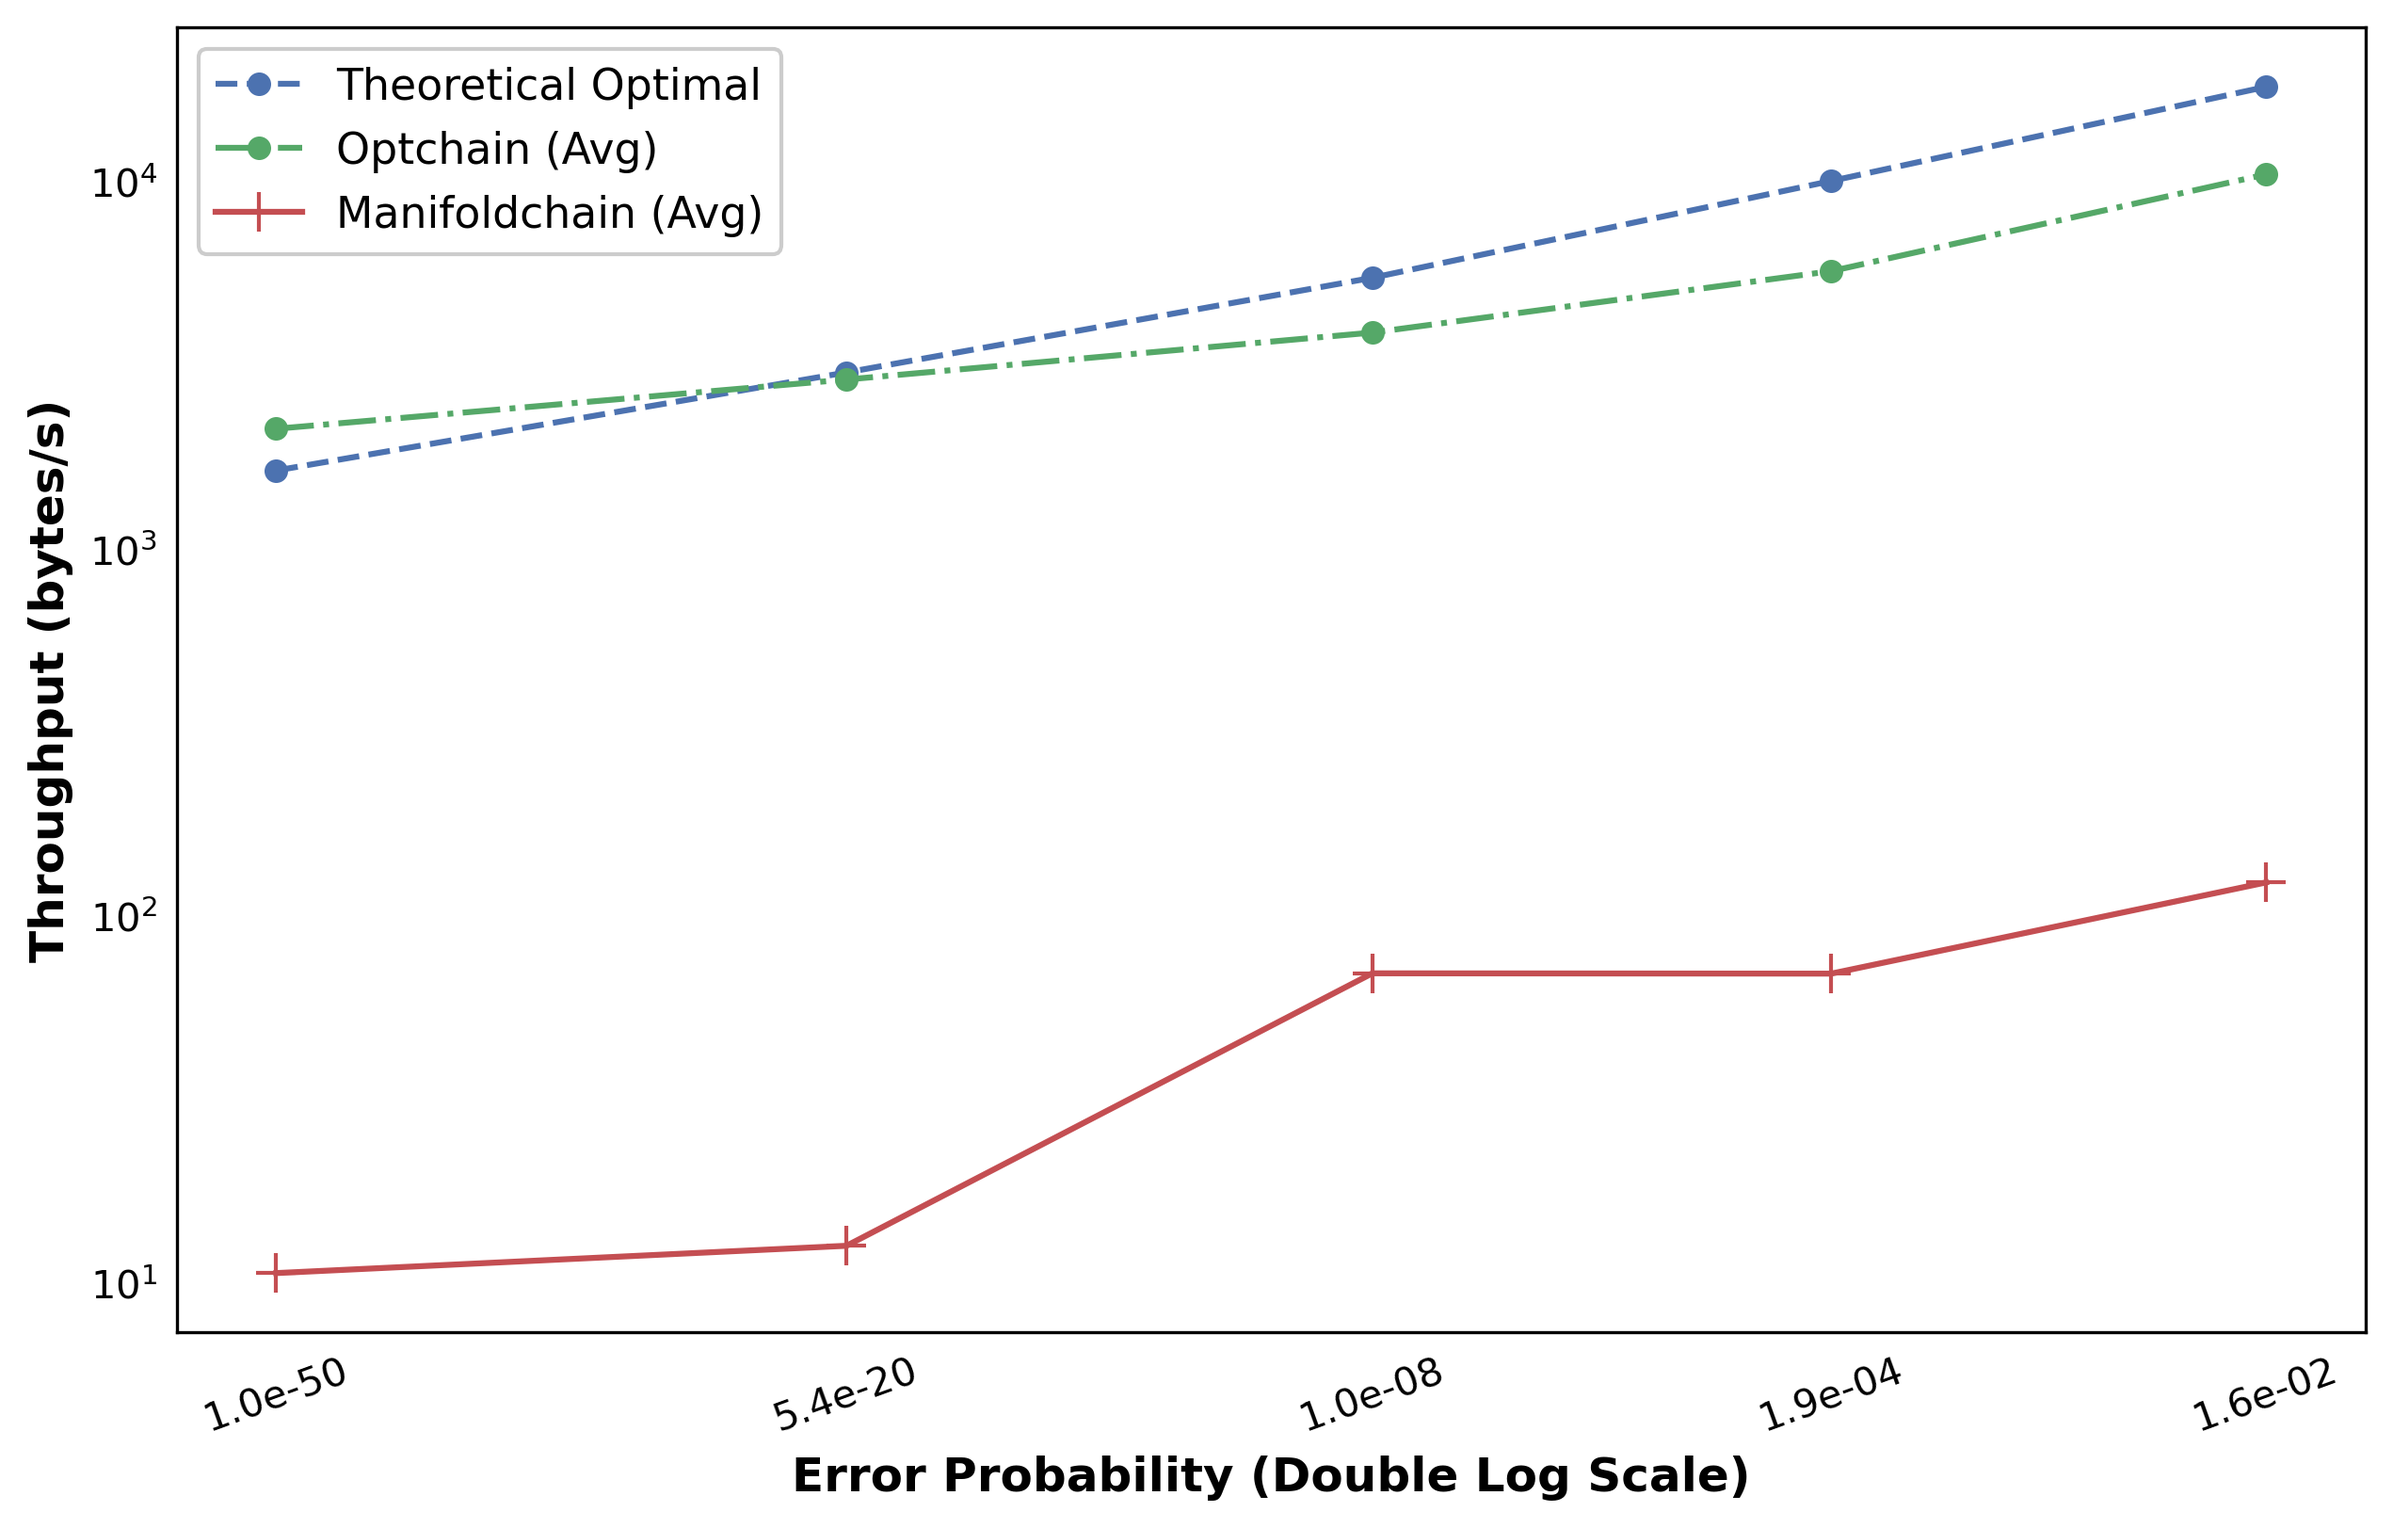
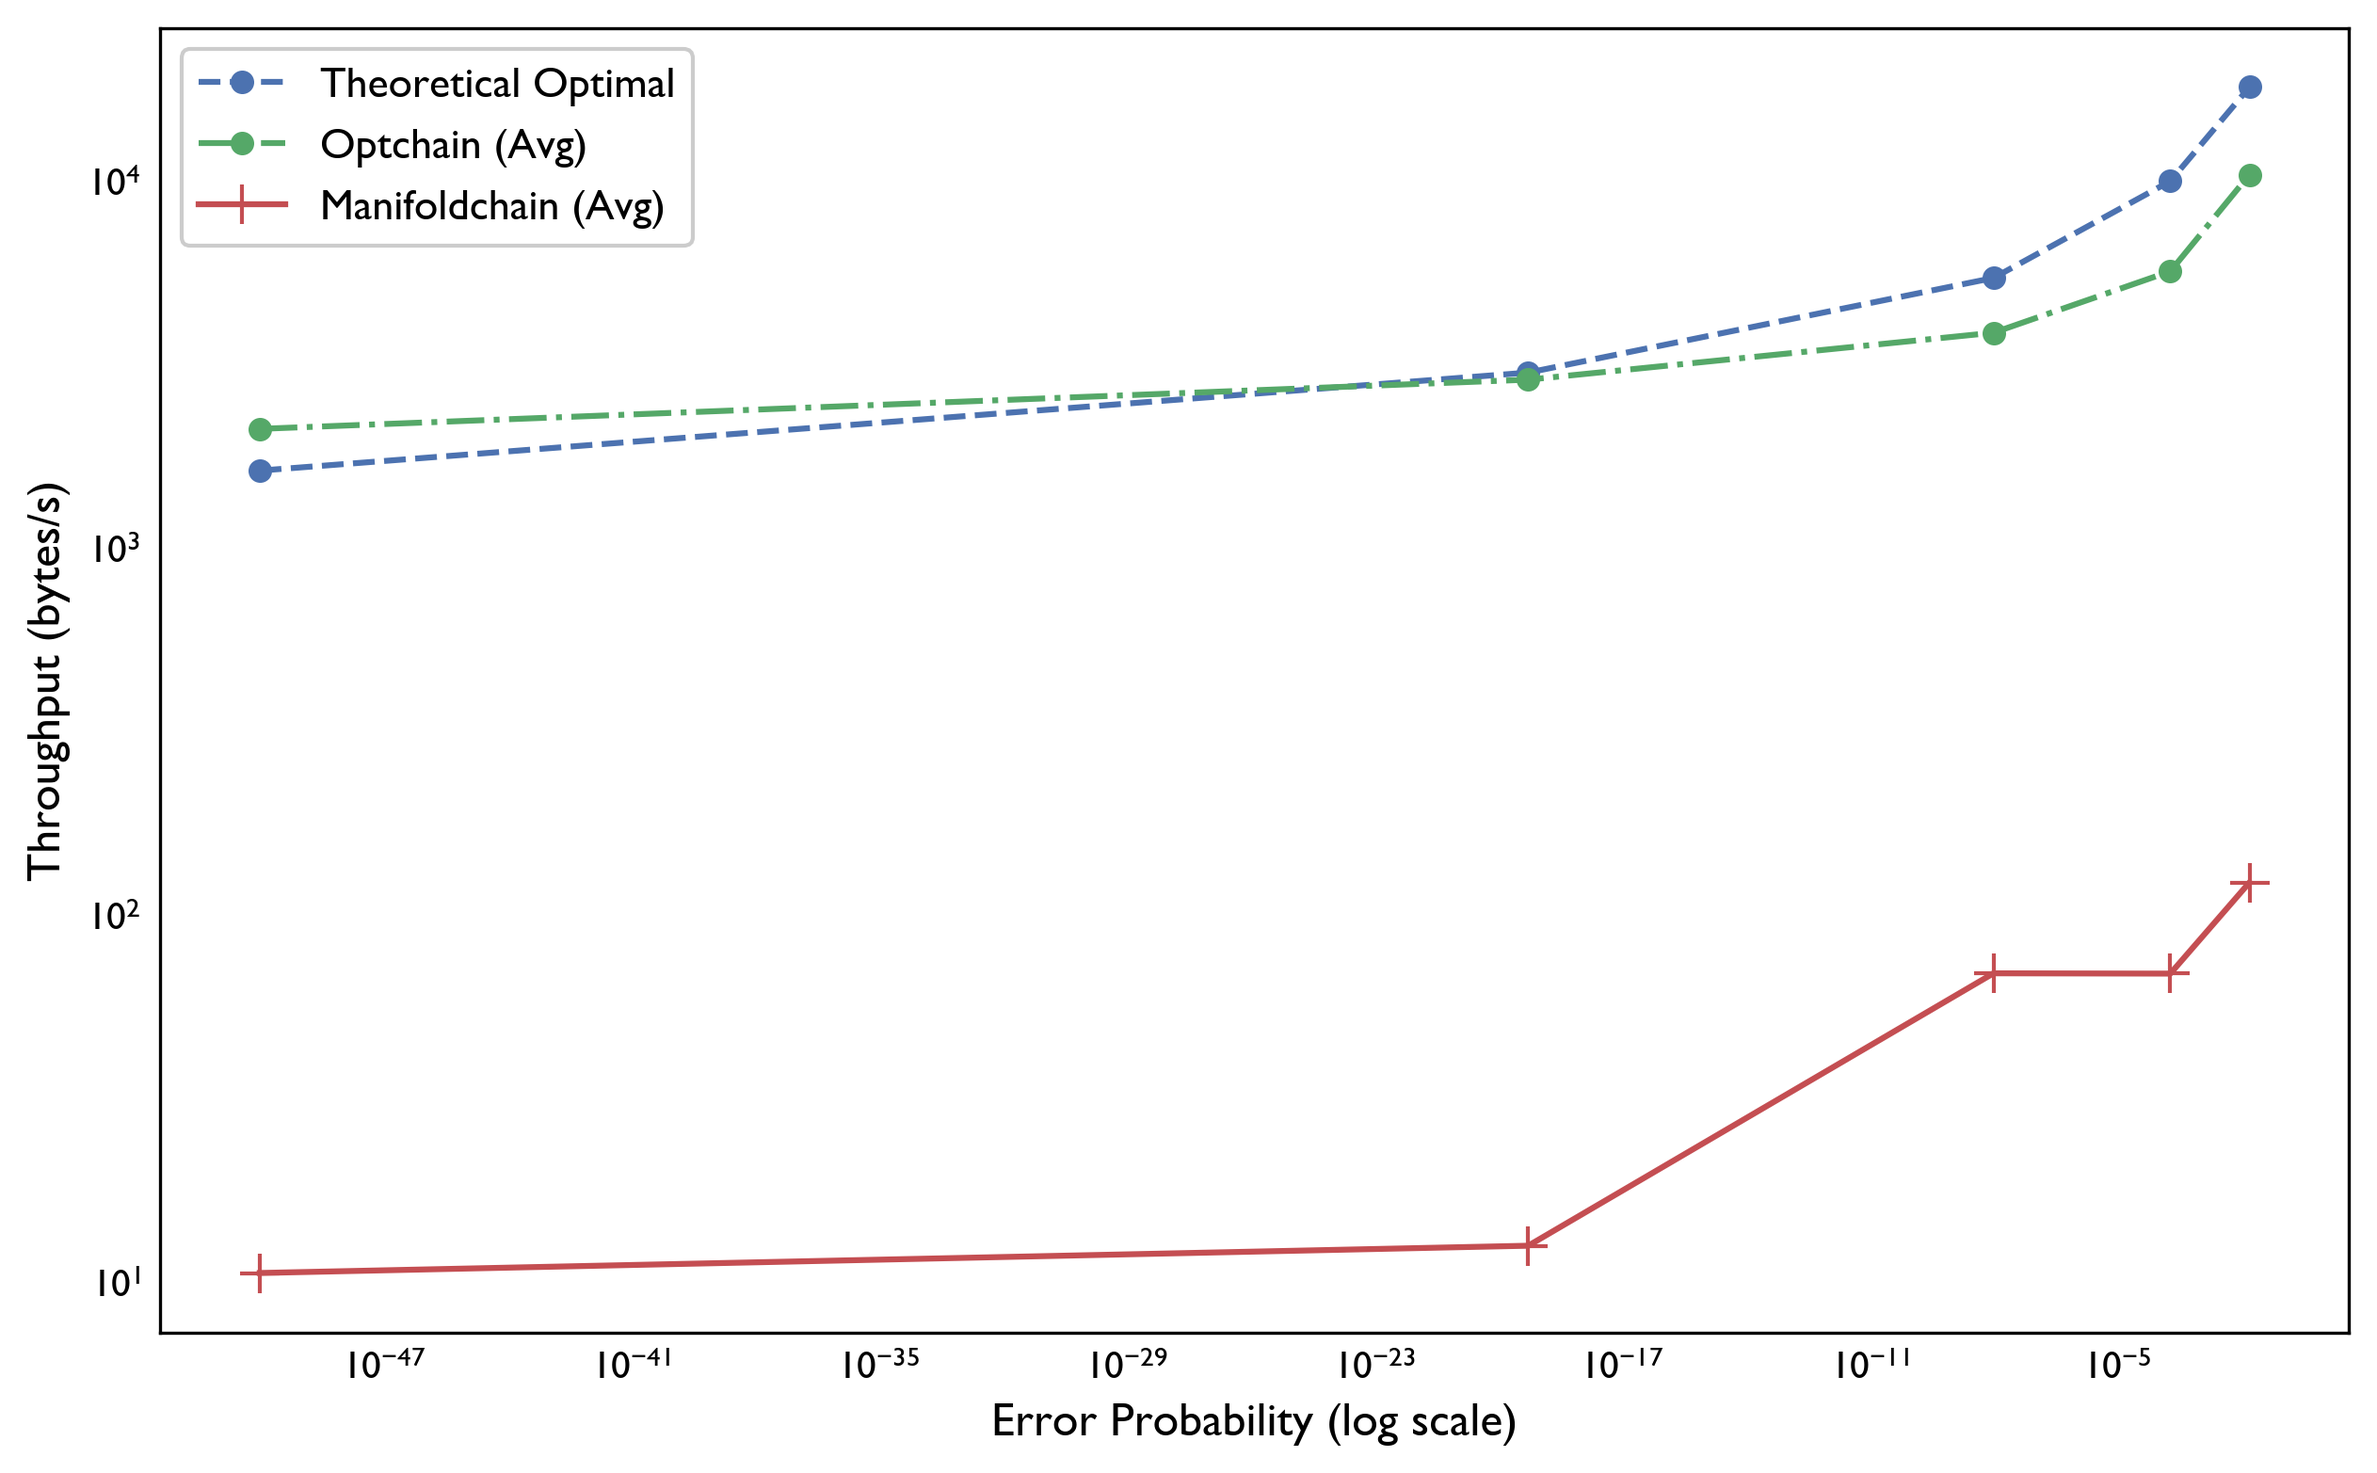
update

diff --git a/img/plot_tps_1_2.py b/img/plot_tps_1_2.py
@@ -274,8 +274,8 @@ for idx, shard_num in enumerate(shard_nums):
 errors_x_transformed = [np.log2(-np.log10(e)) for e in errors_x]
 
 plt.figure(figsize=(11, 7))
-# plt.rcParams['font.family'] = 'sans-serif'
-# plt.rcParams['font.sans-serif'] = ['Gill Sans MT', 'Gill Sans', 'Arial']
+plt.rcParams['font.family'] = 'sans-serif'
+plt.rcParams['font.sans-serif'] = ['Gill Sans MT', 'Gill Sans', 'Arial']
 
 style_configs = [
     {
@@ -342,7 +342,7 @@ plt.ylabel("Throughput (bytes/s)", fontsize=12, fontweight='bold')
 
 # 4. X-Axis Label
 #    Explains that 'x' is the exponent in the formula
-plt.xlabel(r"Error Probability as Function of Transformed Value $x$" + "\n" + r"$\text{Error} = 10^{-(2^x)}$", 
+plt.xlabel(r"$\text{Error} = 10^{-(2^x)}$", 
            fontsize=12, fontweight='bold', labelpad=10)
 
 # 5. Spines and Grid
@@ -350,6 +350,8 @@ ax = plt.gca()
 ax.spines['top'].set_visible(True)
 ax.spines['right'].set_visible(True)
 ax.grid(False)
+
+ax.tick_params(axis='both', which='both', length=0, pad=5, labelsize=10)
 
 plt.legend(loc='upper left', frameon=True, fontsize=11, framealpha=1, edgecolor='#cccccc')
 
